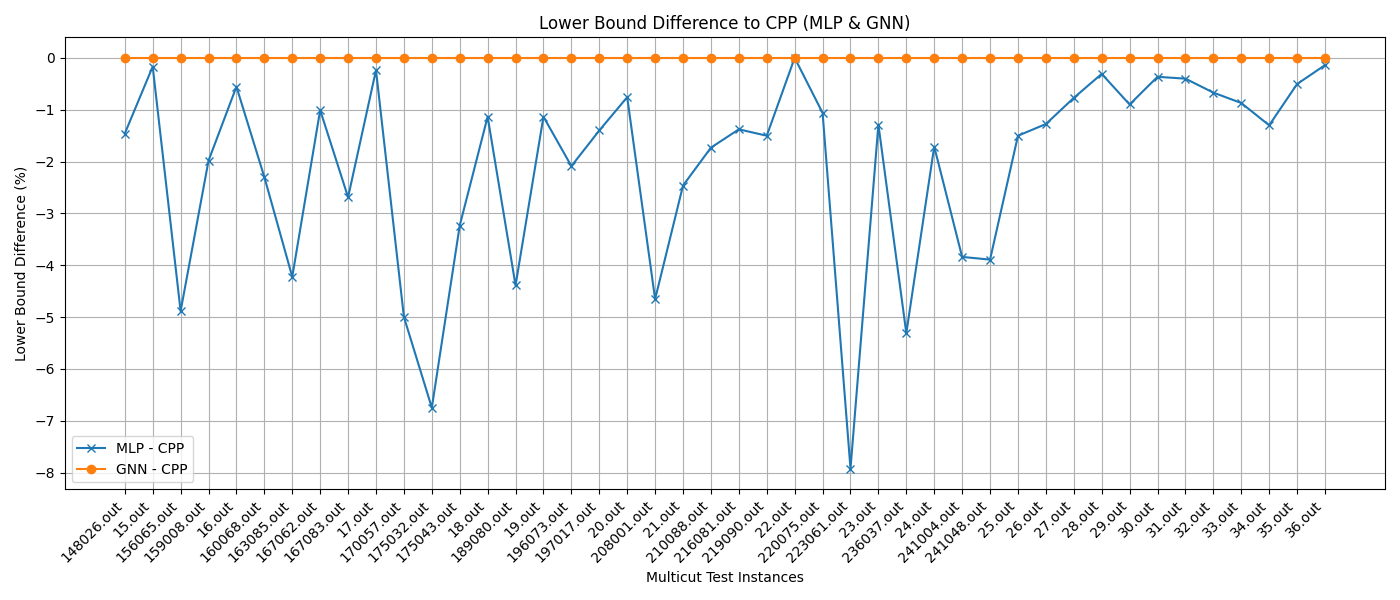
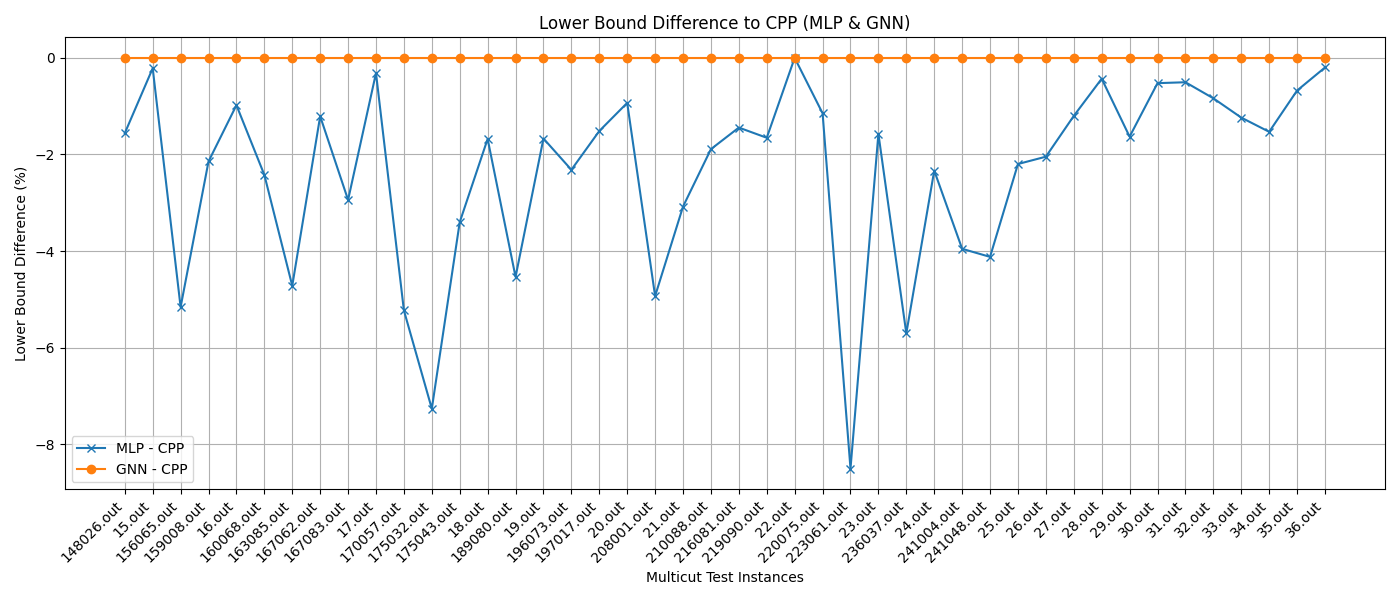
implemented edge->tri message passing via attention

diff --git a/src/message_passing_nn/mlp/mlp_message_passing.py b/src/message_passing_nn/mlp/mlp_message_passing.py
@@ -13,12 +13,11 @@ class ResBlock(nn.Module):
     def forward(self, x):
         return x + self.block(x)
 
-class MLPMessagePassing(nn.Module):
-    def __init__(self):
-        super(MLPMessagePassing, self).__init__()
-        
-        self.edge_to_tri_mlp = nn.Sequential(
-            nn.Linear(1, 8),
+class EdgeToTriMLP(nn.Module):
+    def __init__(self, input_dim=1, output_dim=1):
+        super().__init__()
+        self.mlp = nn.Sequential(
+            nn.Linear(input_dim, 8),
             nn.LayerNorm(8),
             nn.GELU(),
             nn.Dropout(0.1),
@@ -30,11 +29,61 @@ class MLPMessagePassing(nn.Module):
             nn.Linear(16, 8),
             nn.GELU(),
             nn.LayerNorm(8),
-            nn.Linear(8, 1)
+            nn.Linear(8, output_dim)
         )
 
-        self.tri_to_edge_mlp = nn.Sequential(
-            nn.Linear(3, 16),
+    def forward(self, edge_costs, edge_ids_all):
+        logits = self.mlp(edge_costs).squeeze(-1) 
+        # [10,-4,19,14,-9,-2]
+        weights = scatter_softmax(logits, edge_ids_all, dim=0) 
+        # Kante 4: softmax([10,-4]) = [0.8, 0.2]
+        # Kante 5: softmax([19]) = [1.0]
+        # Kante 9: softmax([14]) = [1.0]
+        # Kante 6: softmax([-9]) = [1.0]
+        # Kante 10: softmax([-2]) = [1.0]
+        # weights = [0.8, 0.2, 1.0, 1.0, 1.0, 1.0]
+        return weights
+    
+class EdgeToTriAttention(nn.Module):
+    def __init__(self, input_dim=2, output_dim=1, d_k=8):
+        super().__init__()
+        self.d_k = d_k
+        self.query = nn.Linear(input_dim, d_k)  # input: [edge_cost, edge_counter]
+        self.key = nn.Linear(input_dim, d_k)
+        self.value = nn.Linear(input_dim, d_k)
+        self.attention_mlp = nn.Sequential(
+            nn.Linear(d_k, 32),
+            nn.LayerNorm(32),
+            nn.GELU(),
+            ResBlock(32),
+            nn.LayerNorm(32),
+            nn.Linear(32, 16),
+            nn.GELU(),
+            nn.Linear(16, output_dim)   # output = weights
+        )
+
+    def forward(self, edge_features, edge_ids_all, triangle_ids_all):
+        queries = self.query(edge_features)  # [num_edges, 2] -> [num_edges, d_k = 8]
+        keys = self.key(edge_features)       
+        values = self.value(edge_features)   
+
+        # Attention(Q, K, V) = softmax(QK^T / sqrt(d_k))V
+        attention_scores = torch.matmul(queries, keys.transpose(0, 1)) / (self.d_k ** 0.5)  # [num_edges, num_edges], aehnlichkeitsmatrix   
+        attention_mask = (triangle_ids_all.unsqueeze(1) == triangle_ids_all.unsqueeze(0)) # nur kanten in gleichen triangles berücksichtigen
+        attention_scores = attention_scores.masked_fill(~attention_mask, float('-inf')) # kanten aus verschiedenen triangles kriegen -inf score
+        attention_weights = torch.softmax(attention_scores, dim=1)  # [num_edges, num_edges]
+        attended_values = torch.matmul(attention_weights, values)  # [num_edges, 8]
+        
+        logits = self.attention_mlp(attended_values).squeeze(-1)  # [num_edges]
+        weights = scatter_softmax(logits, edge_ids_all, dim=0)
+        
+        return weights
+    
+class TriToEdgeMLP(nn.Module):
+    def __init__(self, input_dim=3, output_dim=3):
+        super().__init__()
+        self.mlp = nn.Sequential(
+            nn.Linear(input_dim, 16),
             nn.LayerNorm(16),
             nn.GELU(),
             nn.Dropout(0.1),
@@ -46,9 +95,20 @@ class MLPMessagePassing(nn.Module):
             nn.Linear(32, 16),
             nn.GELU(),
             nn.LayerNorm(16),
-            nn.Linear(16, 3)
+            nn.Linear(16, output_dim)
         )
 
+    def forward(self, x):
+        return self.mlp(x)
+
+class MLPMessagePassing(nn.Module):
+    
+    def __init__(self):
+        super(MLPMessagePassing, self).__init__()
+        self.edge_to_tri_mlp = EdgeToTriMLP(input_dim=1, output_dim=1) # input = edge_cost, output = weights
+        self.edge_to_tri_attention = EdgeToTriAttention(input_dim=2, output_dim=1, d_k=8) # input = [edge_cost, edge_counter], output = weights
+        self.tri_to_edge_mlp = TriToEdgeMLP(input_dim=3, output_dim=3) # input = [t12, t13, t23], output = [t12_updated, t13_updated, t23_updated]
+    
     def send_messages_to_triplets(self, edge_costs, t12, t13, t23,
                                      corr_12, corr_13, corr_23, edge_counter):
         
@@ -73,7 +133,6 @@ class MLPMessagePassing(nn.Module):
                                    corr_12, corr_13, corr_23, edge_counter):
 
         # bspw: 2 triangles: [4,5,6], [4,9,10], corr_12 = [4,4] etc.
-
         num_triangles = t12.shape[0] 
         # 2
         triangle_ids = torch.arange(num_triangles, device=edge_costs.device) 
@@ -91,19 +150,12 @@ class MLPMessagePassing(nn.Module):
         # mapping (lagrange_id in triangle_id) -> edge_id 
 
         edge_costs_input = edge_costs[edge_ids_all].unsqueeze(-1)      
-        logits = self.edge_to_tri_mlp(edge_costs_input).squeeze(-1) 
-        # [10,-4,19,14,-9,-2]
-        weights = scatter_softmax(logits, edge_ids_all, dim=0) 
-        # Kante 4: softmax([10,-4]) = [0.8, 0.2]
-        # Kante 5: softmax([19]) = [1.0]
-        # Kante 9: softmax([14]) = [1.0]
-        # Kante 6: softmax([-9]) = [1.0]
-        # Kante 10: softmax([-2]) = [1.0]
-        # weights = [0.8, 0.2, 1.0, 1.0, 1.0, 1.0]
 
+        weights = self.edge_to_tri_mlp(edge_costs_input, edge_ids_all).squeeze(-1) 
         contrib = edge_costs[edge_ids_all] * weights  
+
         # [edge_costs[4] * 0.8, edge_costs[4] * 0.2, edge_costs[5] * 1, ... ] 
-       
+ 
         t12_updated = t12.clone()
         t13_updated = t13.clone()
         t23_updated = t23.clone()
@@ -132,12 +184,49 @@ class MLPMessagePassing(nn.Module):
         edge_costs[mask] = 0.0
 
         return edge_costs, t12_updated, t13_updated, t23_updated
+    
+    def send_messages_to_triplets_attention(self, edge_costs, t12, t13, t23,
+                                         corr_12, corr_13, corr_23, edge_counter):
+
+        num_triangles = t12.shape[0] 
+        triangle_ids = torch.arange(num_triangles, device=edge_costs.device) 
+        edge_ids_all = torch.cat([corr_12, corr_13, corr_23], dim=0) 
+        triangle_ids_all = torch.cat([triangle_ids, triangle_ids, triangle_ids], dim=0)
+        positions = torch.cat([
+            torch.full_like(corr_12, 0),  
+            torch.full_like(corr_13, 1),  
+            torch.full_like(corr_23, 2)   
+        ])
+
+        edge_features = torch.stack([
+            edge_costs[edge_ids_all],
+            edge_counter[edge_ids_all].float()
+        ], dim=1)  
+
+        weights = self.edge_to_tri_attention(edge_features, edge_ids_all, triangle_ids_all)
+        contrib = edge_costs[edge_ids_all] * weights  
+       
+        t12_updated = t12.clone()
+        t13_updated = t13.clone()
+        t23_updated = t23.clone()
+
+        mask_12 = positions == 0 
+        mask_13 = positions == 1 
+        mask_23 = positions == 2 
+
+        t12_updated.scatter_add_(0, triangle_ids_all[mask_12], contrib[mask_12])
+        t13_updated.scatter_add_(0, triangle_ids_all[mask_13], contrib[mask_13])
+        t23_updated.scatter_add_(0, triangle_ids_all[mask_23], contrib[mask_23])
+
+        mask = edge_counter > 0
+        edge_costs[mask] = 0.0
+
+        return edge_costs, t12_updated, t13_updated, t23_updated
 
     def send_messages_to_edges_mlp(self, edge_costs, t12, t13, t23,
                                           corr_12, corr_13, corr_23):
 
         tri_features = torch.stack([t12, t13, t23], dim=1)
-
         delta = self.tri_to_edge_mlp(tri_features)
 
         t12 = t12 - delta[:, 0] 
@@ -152,11 +241,11 @@ class MLPMessagePassing(nn.Module):
         edge_costs = edge_costs + edge_updates
         
         return edge_costs, t12, t13, t23
-    
+
     def forward(self, edge_costs, t12_costs, t13_costs, t23_costs,
                         tri_corr_12, tri_corr_13, tri_corr_23, edge_counter):
         
-        edge_costs, t12_costs, t13_costs, t23_costs = self.send_messages_to_triplets(
+        edge_costs, t12_costs, t13_costs, t23_costs = self.send_messages_to_triplets_attention(
             edge_costs, t12_costs, t13_costs, t23_costs,
             tri_corr_12, tri_corr_13, tri_corr_23, edge_counter
         )
